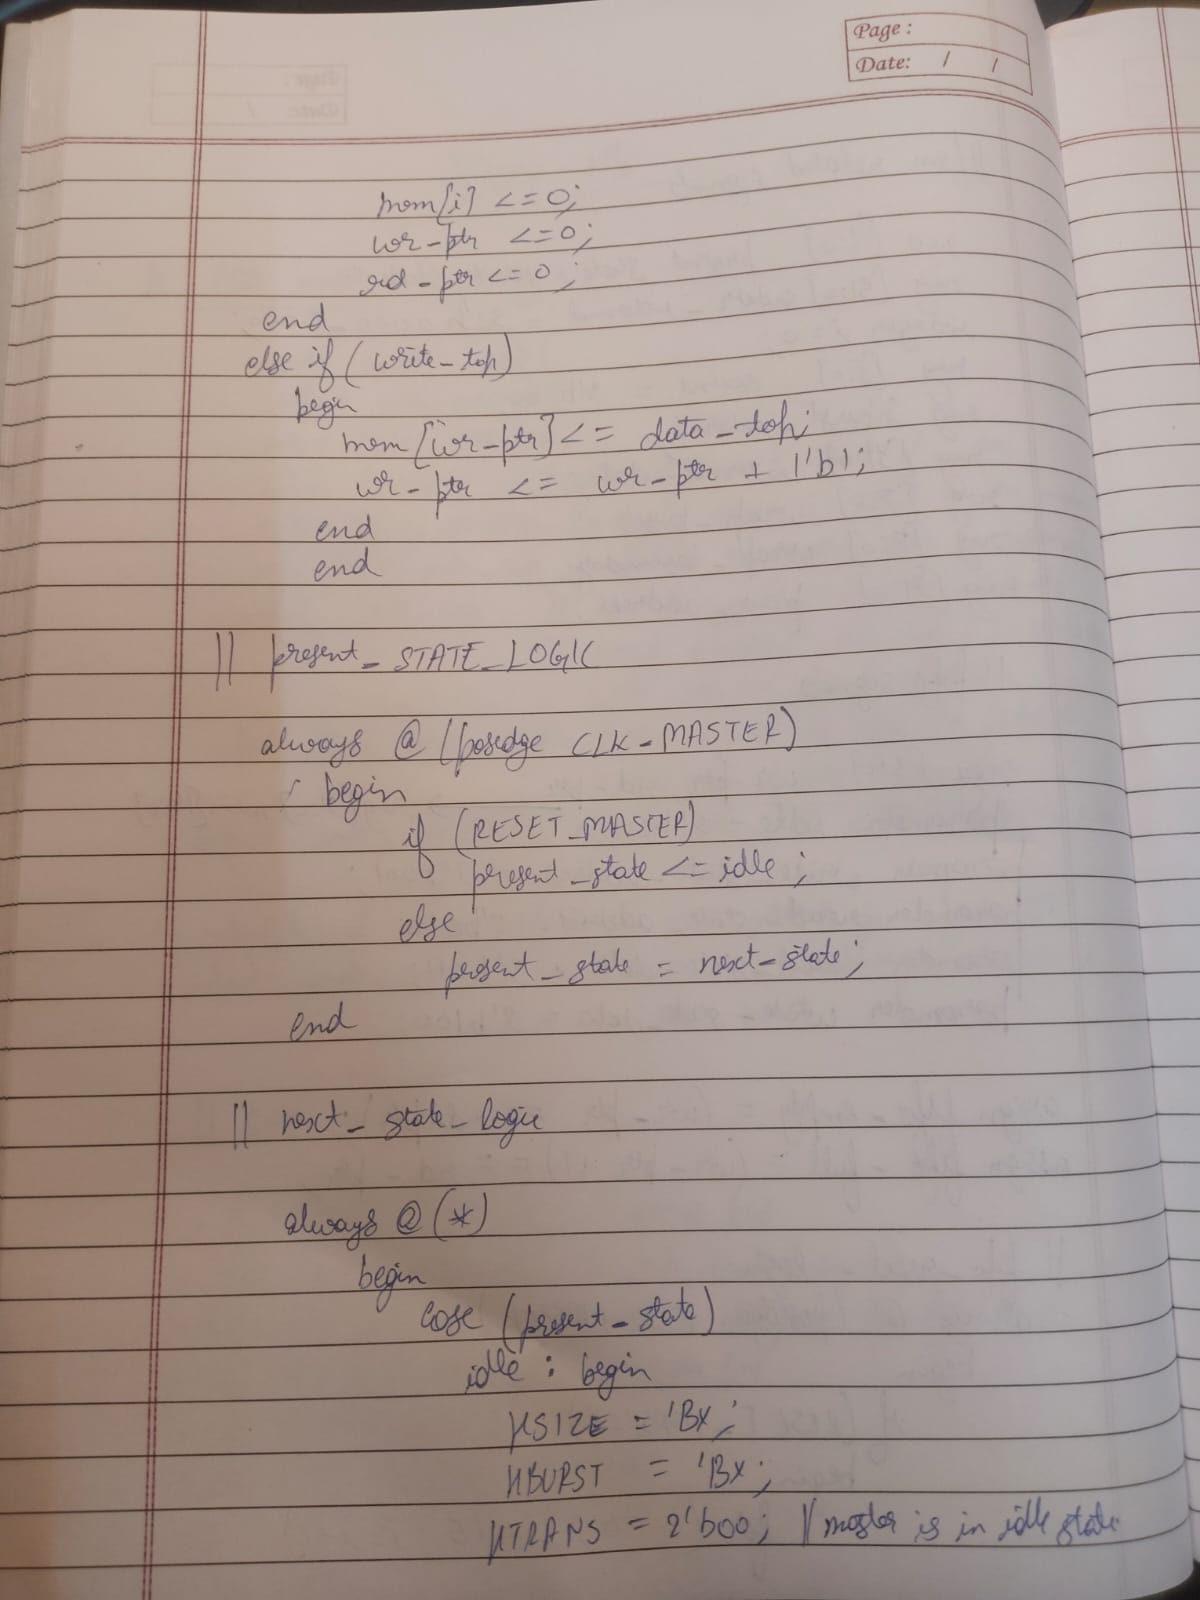
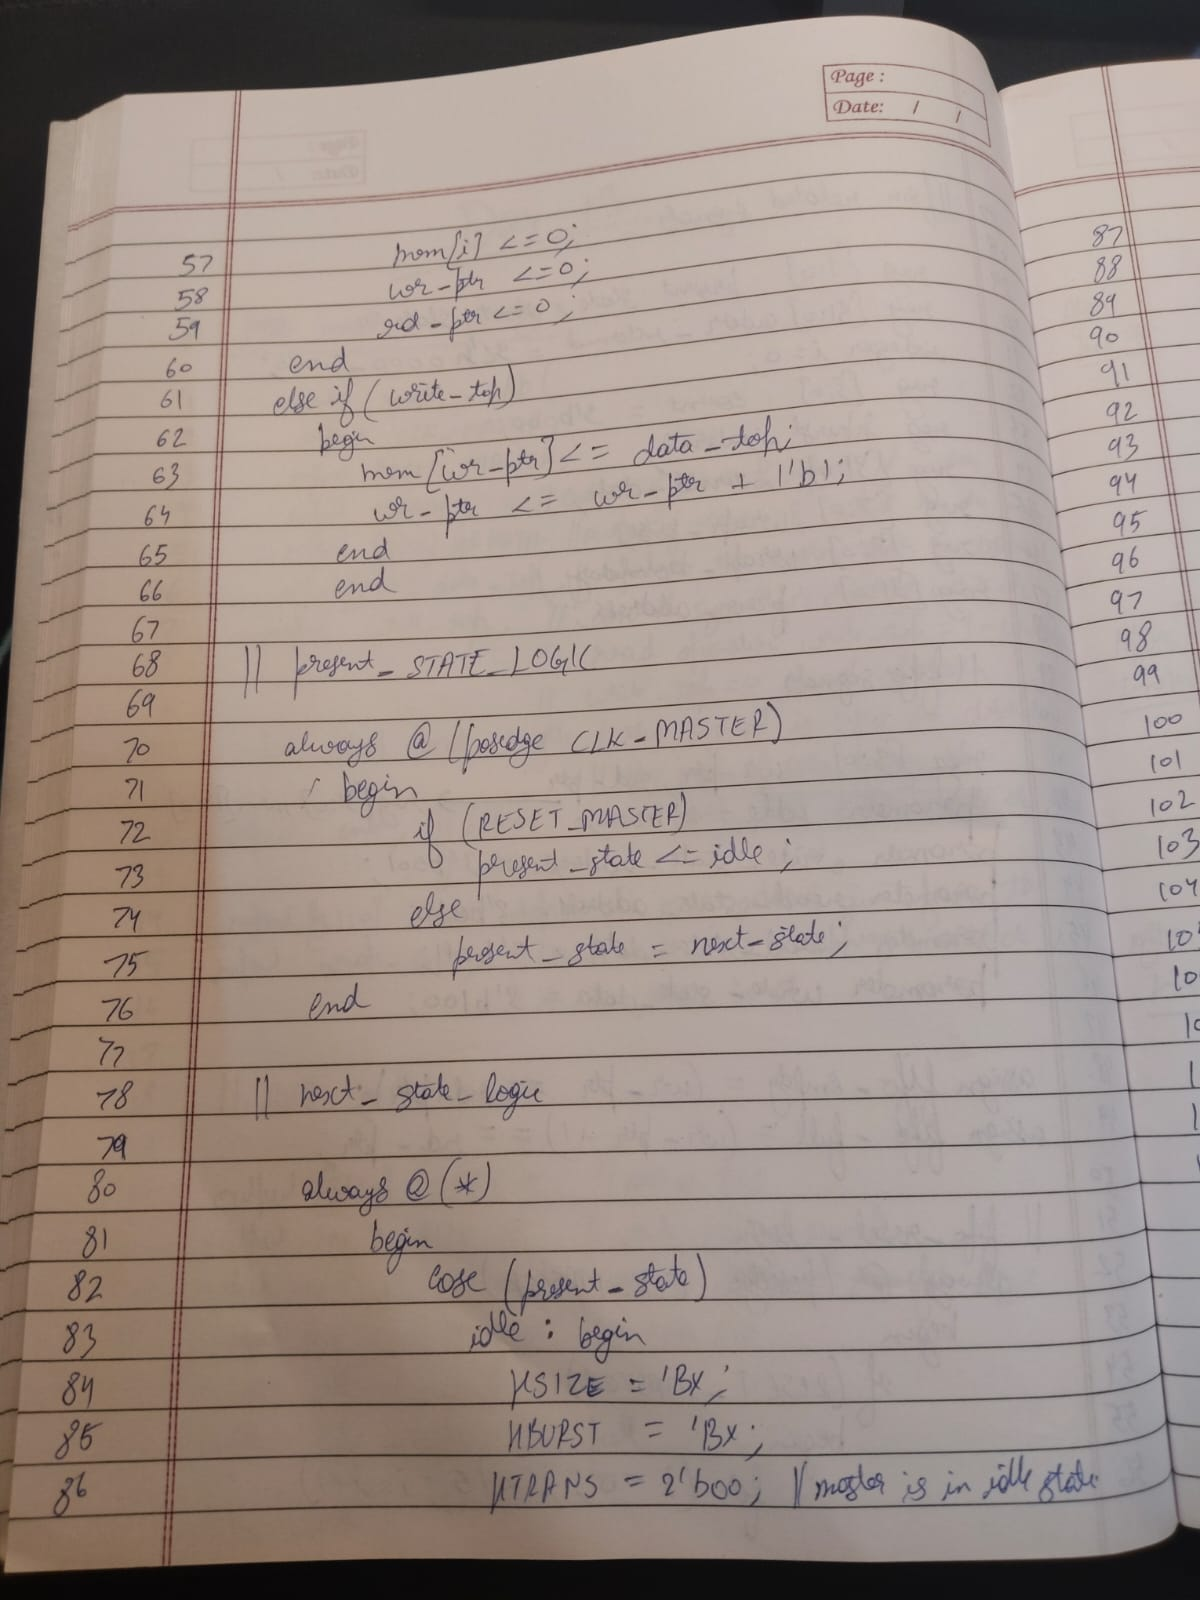
docs: replace day 13 photos with numbered code references

diff --git a/journal/day-014.md b/journal/day-014.md
@@ -33,6 +33,11 @@ drives local request inputs separately from the AHB interface signals.
 
 ## Handwritten notes
 
+The INCR4 additions refer to line numbers in the
+[Day 13 master example](day-013.md#notes). Its five photos have been
+updated with handwritten line numbers so the insertion points can
+be followed without rewriting the baseline code.
+
 1. [INCR4 master control and transfer types](../notes/day-014-01.jpg)
 2. [Beat counter, FIFO pointer and address progression](../notes/day-014-02.jpg)
 3. [Slave interface and state declarations](../notes/day-014-03.jpg)

diff --git a/journal/day-013.md b/journal/day-013.md
@@ -43,6 +43,10 @@ are local controls, rather than additional standard AHB signals.
 
 ## Notes
 
+The photos below include handwritten line numbers, added on
+26 October 2026 to support the code-insertion references in the
+[Day 14 INCR4 notes](day-014.md). They replace the earlier unnumbered photos.
+
 - [Module interface](../notes/day-013-01.jpg)
 - [Internal registers and FIFO signals](../notes/day-013-02.jpg)
 - [Reset and state logic](../notes/day-013-03.jpg)
